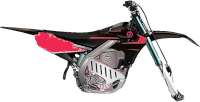
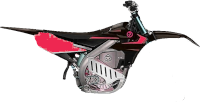
Add sprites for wheel_l, wheel_r

Changed region(s): [[0.72, 0.3529, 0.93, 1.0], [0.69, 0.0294, 0.78, 0.3235]]

diff --git a/pygd/graphics/bike.py b/pygd/graphics/bike.py
@@ -16,14 +16,14 @@ class Bike:
         # Wheel sprites
         self.sprites_wheel = []
         wheel_l_sprite = pyglet.sprite.Sprite(
-            self.img_wheel, batch=batch, group=group, usage="stream"
+            self.img_wheel_l, batch=batch, group=group, usage="stream"
         )
-        wheel_l_sprite.scale = PhysicsBike.WHEEL_L_RADIUS / (self.img_wheel.width / 2)
+        wheel_l_sprite.scale = PhysicsBike.WHEEL_L_RADIUS / (self.img_wheel_l.width / 2)
         self.sprites_wheel.append(wheel_l_sprite)
         wheel_r_sprite = pyglet.sprite.Sprite(
-            self.img_wheel, batch=batch, group=group, usage="stream"
+            self.img_wheel_r, batch=batch, group=group, usage="stream"
         )
-        wheel_r_sprite.scale = PhysicsBike.WHEEL_R_RADIUS / (self.img_wheel.width / 2)
+        wheel_r_sprite.scale = PhysicsBike.WHEEL_R_RADIUS / (self.img_wheel_r.width / 2)
         self.sprites_wheel.append(wheel_r_sprite)
 
         # Frame sprite
@@ -34,15 +34,15 @@ class Bike:
         self.sprite_frame.scale_x = -1.0
 
         # Bike frame (pymunk)
-        self.bike_frame_lines_pymunk = PolyLine(
-            [(0.0, 0.0) for _ in PhysicsBike.FRAME_POINTS],
-            close=True,
-            color=self.COLOR_BIKE_FRAME,
-            width=self.LINE_WIDTH_BIKE_FRAME,
-            batch=batch,
-            group=group,
-            vertex_usage="stream",
-        )
+        # self.bike_frame_lines_pymunk = PolyLine(
+        #     [(0.0, 0.0) for _ in PhysicsBike.FRAME_POINTS],
+        #     close=True,
+        #     color=self.COLOR_BIKE_FRAME,
+        #     width=self.LINE_WIDTH_BIKE_FRAME,
+        #     batch=batch,
+        #     group=group,
+        #     vertex_usage="stream",
+        # )
 
         # Driver head
         self.driver_head = pyglet.shapes.Circle(
@@ -67,9 +67,13 @@ class Bike:
         self.img_frame.anchor_x = 58.0
         self.img_frame.anchor_y = 8.0
 
-        self.img_wheel = pyglet.resource.image("wheel.png")
-        self.img_wheel.anchor_x = self.img_wheel.width // 2
-        self.img_wheel.anchor_y = self.img_wheel.height // 2
+        self.img_wheel_l = pyglet.resource.image("wheel_l.png")
+        self.img_wheel_l.anchor_x = self.img_wheel_l.width // 2
+        self.img_wheel_l.anchor_y = self.img_wheel_l.height // 2
+
+        self.img_wheel_r = pyglet.resource.image("wheel_r.png")
+        self.img_wheel_r.anchor_x = self.img_wheel_r.width // 2
+        self.img_wheel_r.anchor_y = self.img_wheel_r.height // 2
 
     def update(self, game):
         # Wheels
@@ -87,9 +91,9 @@ class Bike:
             (v.rotated(frame_body.angle) + frame_body.position)
             for v in frame_shape.get_vertices()
         ]
-        bike_frame_rot = frame_body.angle
 
         # Bike frame (sprite)
+        bike_frame_rot = frame_body.angle
         self.sprite_frame.update(
             x=bike_frame_points_pymunk[0].x,
             y=bike_frame_points_pymunk[0].y,
@@ -97,7 +101,12 @@ class Bike:
         )
 
         # Bike frame (pymunk)
-        self.bike_frame_lines_pymunk.update(bike_frame_points_pymunk)
+        # bike_frame_points_pymunk = [
+        #     # Local to world coords
+        #     (v.rotated(frame_body.angle) + frame_body.position)
+        #     for v in frame_shape.get_vertices()
+        # ]
+        # self.bike_frame_lines_pymunk.update(bike_frame_points_pymunk)
 
         # Driver head
         head_pos = game.bike.driver_head_body.position
